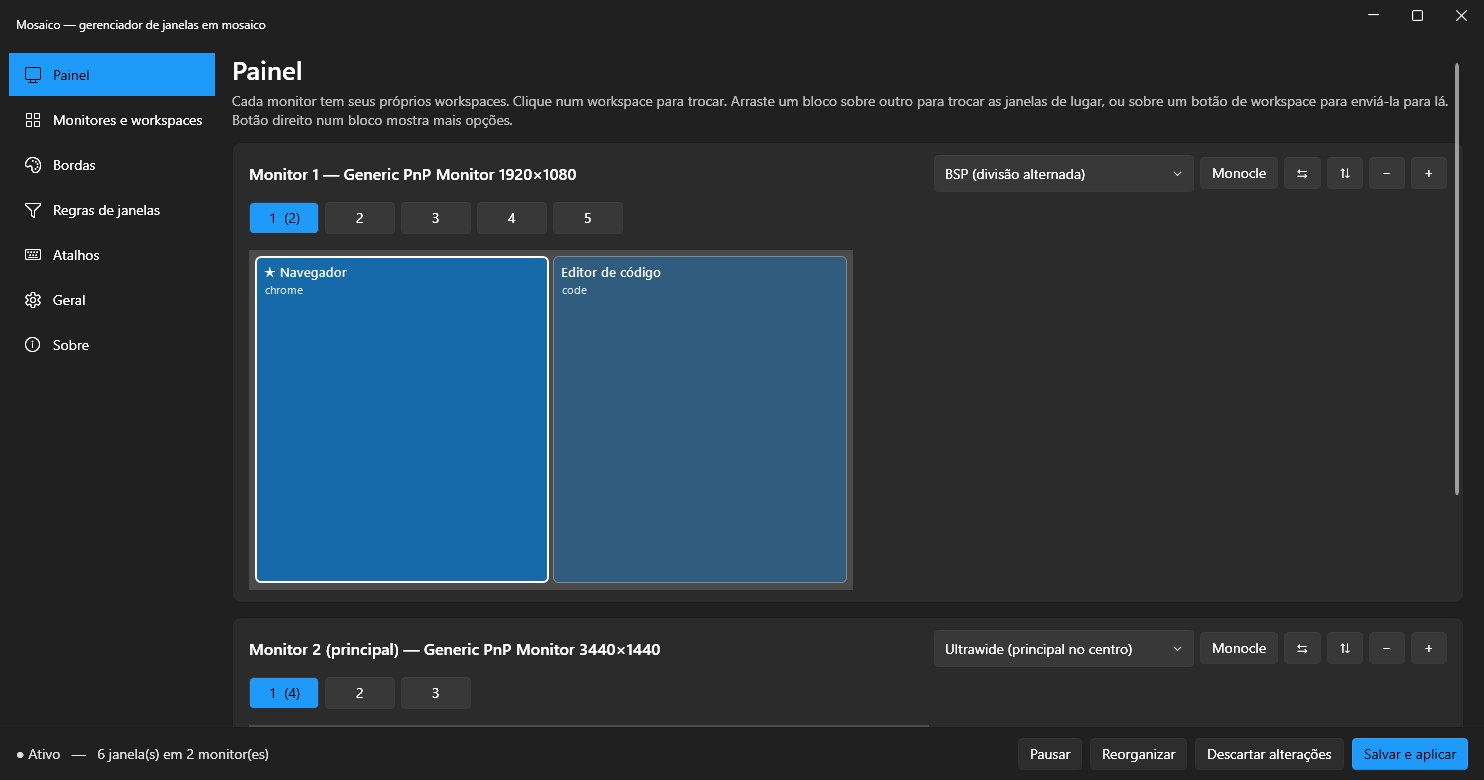
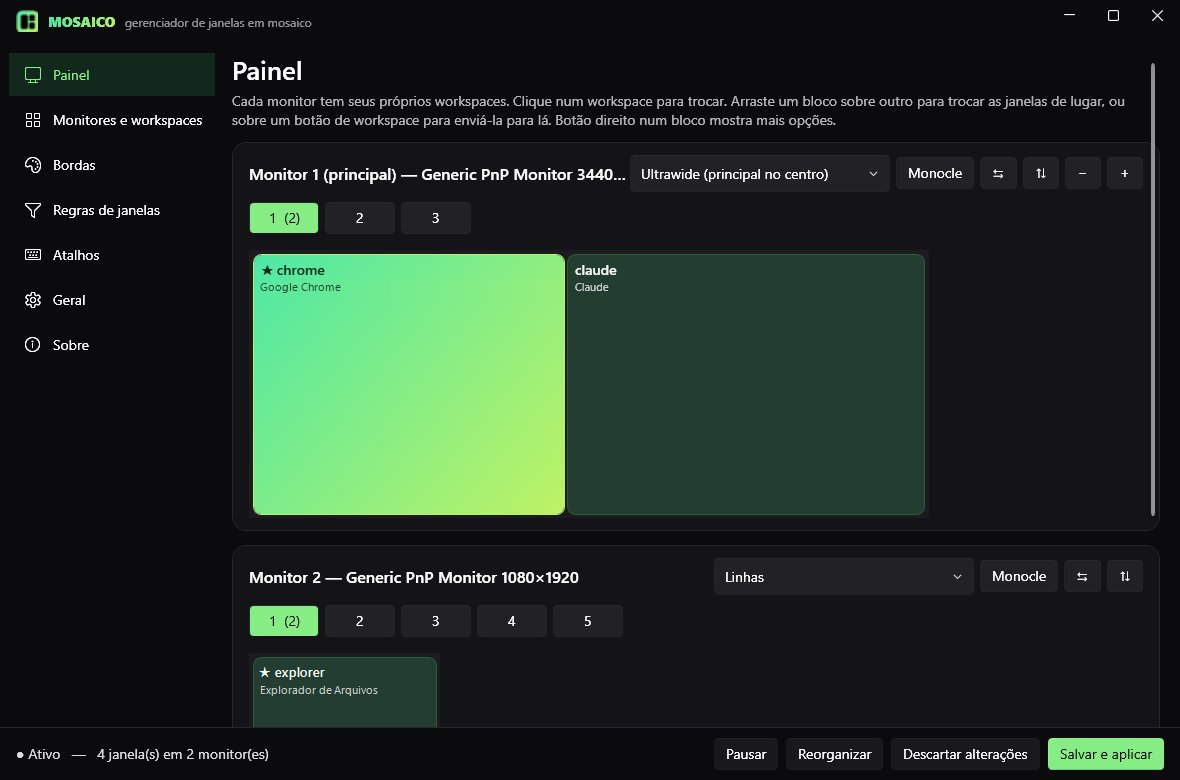
Imagens e ícones novos: VTask, Mosaico, RefCanvas e Yoink.md
- Capturas com a nova identidade verde de cada app
- Ícones reais dos apps no launcher do topo e no painel de detalhes
- Yoink.md: R\$ 19,90 em pagamento único (não é mais mensal)
- Assets em ?v=5

diff --git a/js/products.js b/js/products.js
@@ -62,6 +62,7 @@ window.NADOTI_PRODUCTS = [
     price: "R$ 97",
     priceNote: "vitalícia · 7 dias grátis",
     image: "img/daw_manager_board.webp",
+    icon: "img/daw_manager_icon.png",
     url: "https://daw-manager.vercel.app/",
     ctaLabel: "Testar grátis por 7 dias",
     featured: true,
@@ -114,6 +115,7 @@ window.NADOTI_PRODUCTS = [
     price: "Valor em breve",
     priceNote: "site em breve",
     image: "img/vtask.jpg",
+    icon: "img/vtask_icon.png",
     url: "",
   },
   {
@@ -139,6 +141,7 @@ window.NADOTI_PRODUCTS = [
     price: "Valor em breve",
     priceNote: "site em breve",
     image: "img/mosaico.jpg",
+    icon: "img/mosaico_icon.png",
     imagePosition: "left top",
     url: "",
   },
@@ -166,6 +169,7 @@ window.NADOTI_PRODUCTS = [
     price: "Grátis",
     priceNote: "freeware · sem pegadinha",
     image: "img/refcanvas.jpg",
+    icon: "img/refcanvas_icon.png",
     // download liberado só depois do e-mail; o link fica em api/subscribe.js
     gated: true,
     url: "",
@@ -212,14 +216,15 @@ window.NADOTI_PRODUCTS = [
       "Clique no tempo e o vídeo vai direto pro trecho; modo Seguir acompanha o vídeo",
       "Arquivo .md pronto pro Obsidian: cabeçalho, índice e links com o tempo exato",
       "Busca na transcrição, copiar e baixar com um clique",
-      "10 transcrições grátis pra testar",
+      "10 transcrições grátis pra testar; depois, ilimitado com pagamento único",
     ],
     platforms: ["Chrome"],
     formats: ["Extensão", "YouTube"],
     status: "soon",
-    price: "R$ 19,90/mês",
-    priceNote: "ilimitado · 10 grátis",
-    image: "img/yoink_md_popup.jpg",
+    price: "R$ 19,90",
+    priceNote: "pagamento único · 10 grátis",
+    image: "img/yoink_md.jpg",
+    icon: "img/yoink_md_icon.png",
     url: "",
   },
 ];

diff --git a/js/main.js b/js/main.js
@@ -21,7 +21,9 @@
   };
   // Ícone de cada app no launcher do topo
   const ICON_OF = { 'madbass': 'bass', 'daw-manager': 'folders', 'pulso-live': 'pulse', 'vtask': 'check', 'mosaico': 'tiles','refcanvas': 'canvas', 'ollo-reader': 'book', 'yoink-md': 'md' };
-  const iconFor = (p) => GLYPHS[ICON_OF[p.id] || p.glyph] || GLYPHS.md;
+  // Se o produto tem ícone real (campo `icon`), usa ele; senão, o desenho genérico
+  const iconFor = (p) => p.icon ? `<img src="${esc(p.icon)}" alt="" width="36" height="36">`
+    : GLYPHS[ICON_OF[p.id] || p.glyph] || GLYPHS.md;
   const ARROW = '<svg viewBox="0 0 24 24" aria-hidden="true"><path d="M5 12h14M13 6l6 6-6 6"/></svg>';
 
   const media = (p, cls) => {
@@ -136,7 +138,7 @@
       ${media(p, 'd-media')}
       <div class="d-body">
         <div class="card-top"><span class="mono kind">${esc(p.kind)}</span>${badge(p)}</div>
-        <h2 id="drawerTitle">${esc(p.name)}</h2>
+        <h2 id="drawerTitle">${p.icon ? `<img class="d-icon" src="${esc(p.icon)}" alt="" width="44" height="44">` : ''}${esc(p.name)}</h2>
         <p class="d-tagline">${esc(p.tagline)}</p>
         <p class="d-desc">${esc(p.description)}</p>
         <ul class="d-feat">${p.features.map((f) => `<li>${esc(f)}</li>`).join('')}</ul>
@@ -185,7 +187,7 @@
   launcher.tabIndex = 0;
   lList.innerHTML = P.map((p) => `
     <li class="l-item" data-id="${p.id}" role="option">
-      <span class="l-icon" aria-hidden="true">${iconFor(p)}</span>
+      <span class="l-icon${p.icon ? ' has-img' : ''}" aria-hidden="true">${iconFor(p)}</span>
       <span class="l-text"><span class="l-name">${esc(p.name)}</span><span class="l-kind">${esc(p.tagline)}</span></span>
       <span class="l-go">Abrir <kbd>↵</kbd></span>
     </li>`).join('');

diff --git a/index.html b/index.html
@@ -15,7 +15,7 @@
   <link rel="preconnect" href="https://fonts.gstatic.com" crossorigin>
   <link href="https://fonts.googleapis.com/css2?family=Bricolage+Grotesque:opsz,wght@12..96,200..800&family=JetBrains+Mono:wght@400;500&display=swap" rel="stylesheet">
   <link rel="stylesheet" href="https://unpkg.com/lenis@1.3.23/dist/lenis.css">
-  <link rel="stylesheet" href="css/style.css?v=4">
+  <link rel="stylesheet" href="css/style.css?v=5">
 </head>
 <body>
   <a class="skip" href="#apps">Pular para os apps</a>
@@ -196,7 +196,7 @@
   <script src="https://cdnjs.cloudflare.com/ajax/libs/gsap/3.12.5/ScrollTrigger.min.js"></script>
   <script src="https://unpkg.com/lenis@1.3.23/dist/lenis.min.js"></script>
   <script src="https://unpkg.com/split-type@0.3.4/umd/index.min.js"></script>
-  <script src="js/products.js?v=4"></script>
-  <script src="js/main.js?v=4"></script>
+  <script src="js/products.js?v=5"></script>
+  <script src="js/main.js?v=5"></script>
 </body>
 </html>

diff --git a/css/style.css b/css/style.css
@@ -178,6 +178,10 @@ kbd { font-family: var(--mono); font-size: .62rem; padding: 2px 6px; border-radi
   transition: color .35s var(--ease), border-color .35s var(--ease), background-color .35s var(--ease);
 }
 .l-icon svg { width: 18px; height: 18px; }
+.l-icon.has-img { background: none; border-color: transparent; overflow: hidden; }
+.l-icon.has-img img { width: 100%; height: 100%; display: block; }
+.l-item.is-active .l-icon.has-img { background: none; border-color: transparent; box-shadow: 0 0 0 2px rgba(74,222,128,.45); }
+.d-icon { display: block; width: 48px; height: 48px; border-radius: 12px; margin-bottom: 16px; }
 .l-item.is-active .l-icon { color: var(--accent); border-color: rgba(74,222,128,.4); background: var(--accent-soft); }
 .l-text { min-width: 0; display: flex; flex-direction: column; line-height: 1.3; }
 .l-name { font-weight: 600; letter-spacing: -.01em; }
